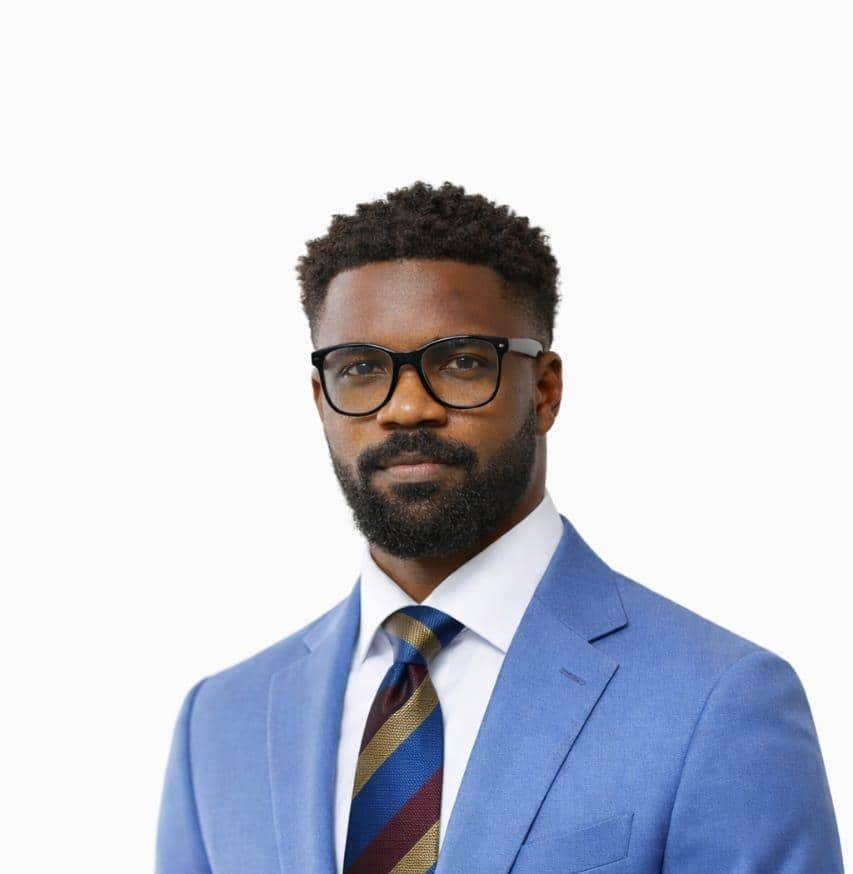
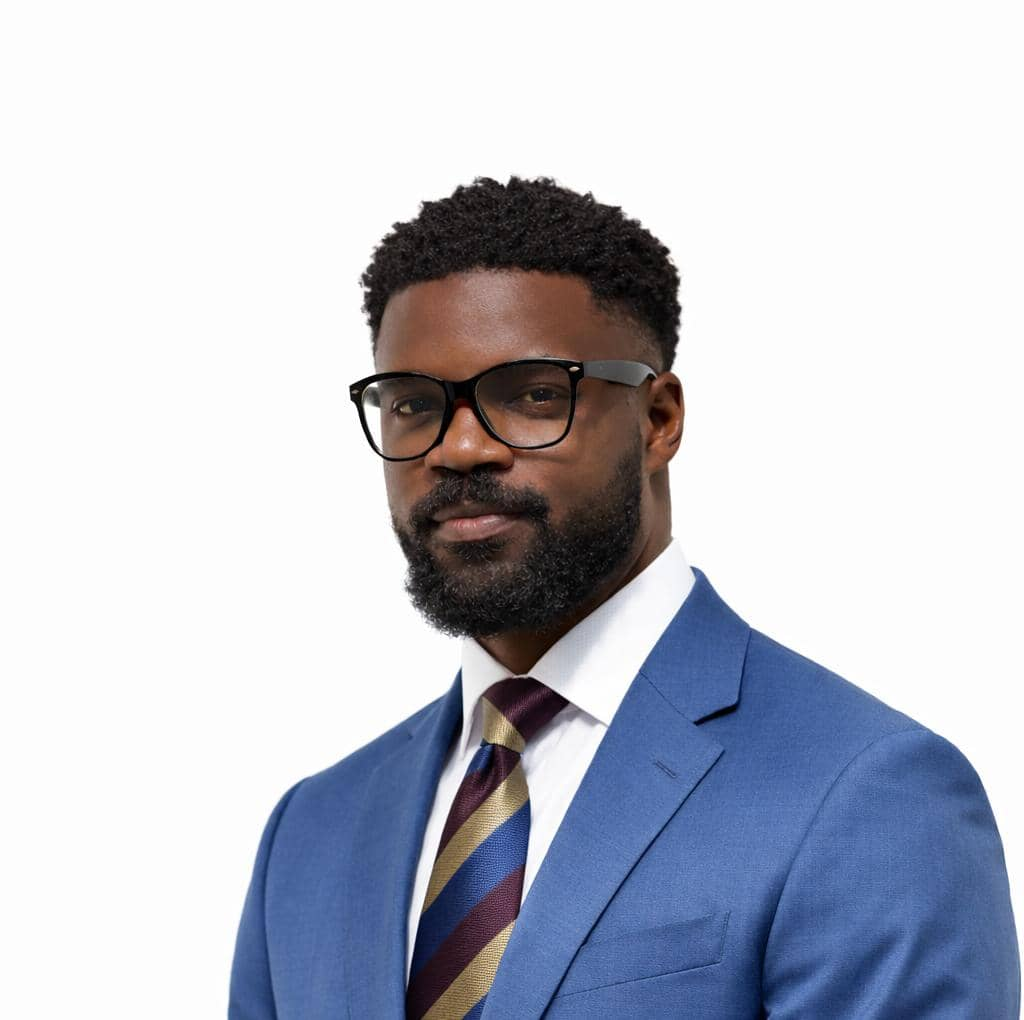
Qua Industries Limited

Changed region(s): [[0.1829, 0.1545, 1.0, 1.0]]

diff --git a/src/components/Team.tsx b/src/components/Team.tsx
@@ -19,7 +19,7 @@ export default function Team() {
       bio: 'Experienced tech leader driving innovation and technology solutions across our ventures',
       email: 'michaeloputa823@gmail.com',
       linkedin: 'https://ng.linkedin.com/in/michael-oputa-7310a3280',
-      image: '/beyonder.jpeg',
+      image: '/Tech.jpeg',
     },
     {
       name: 'Boma Jaja',
